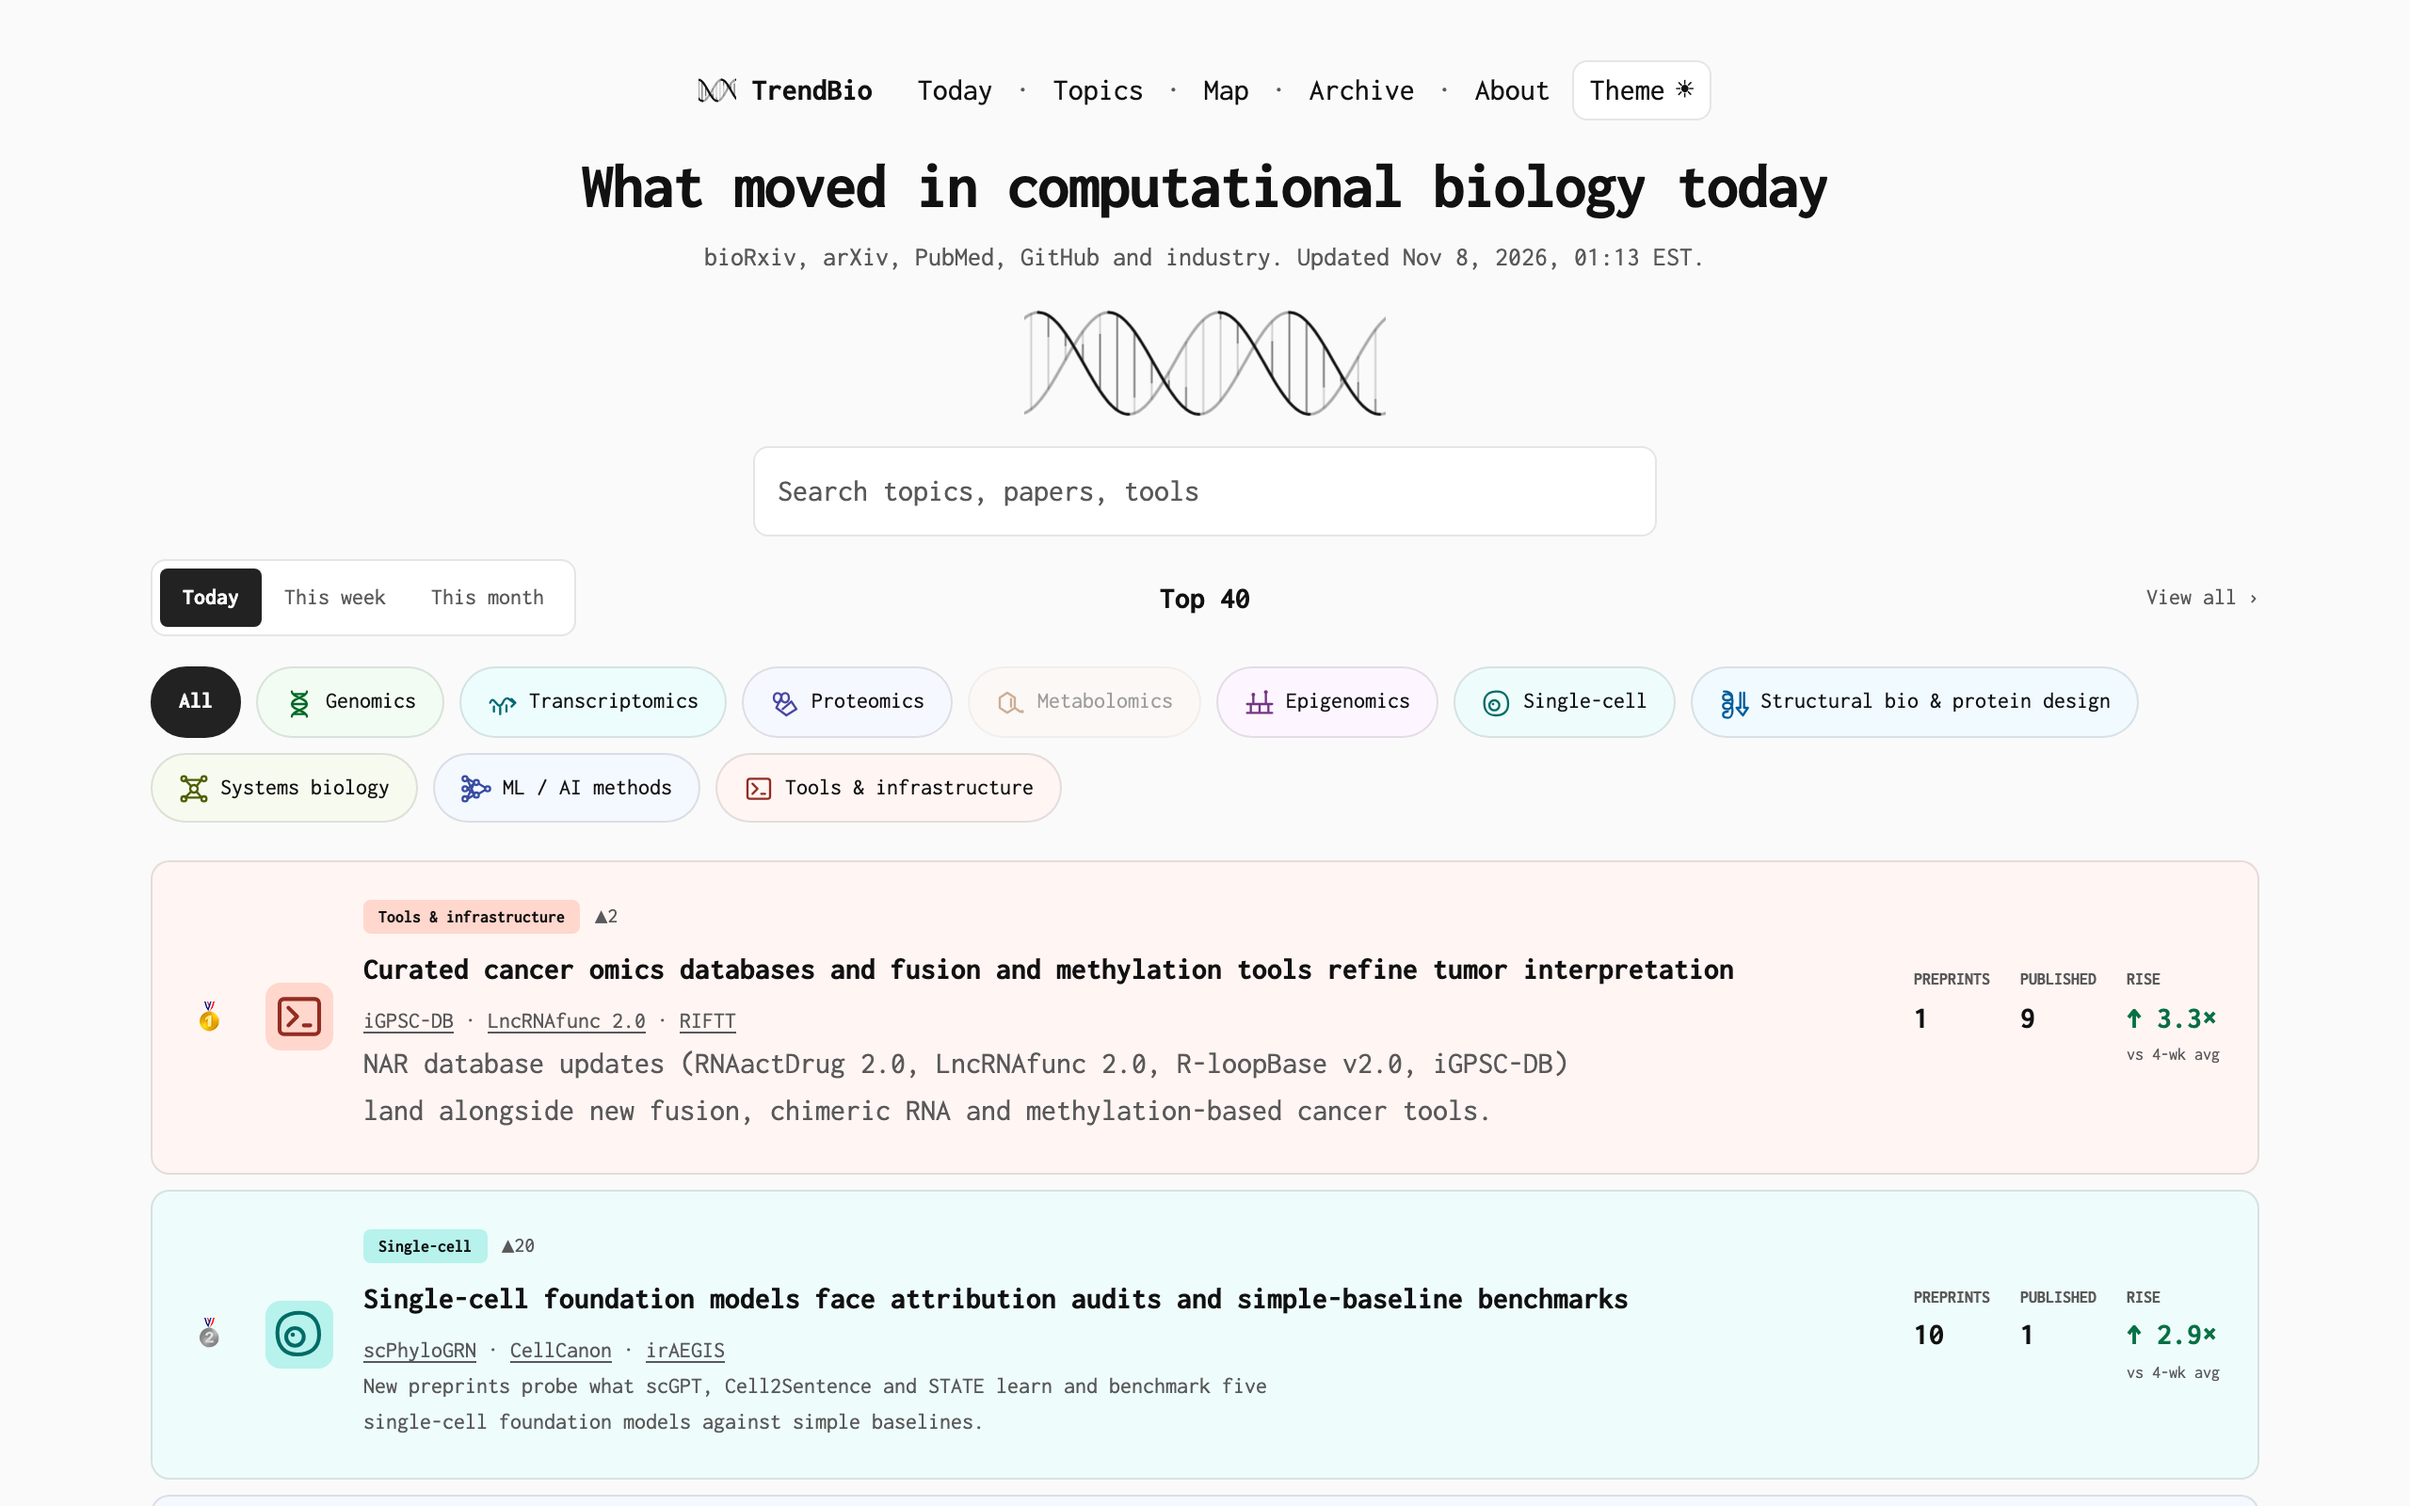
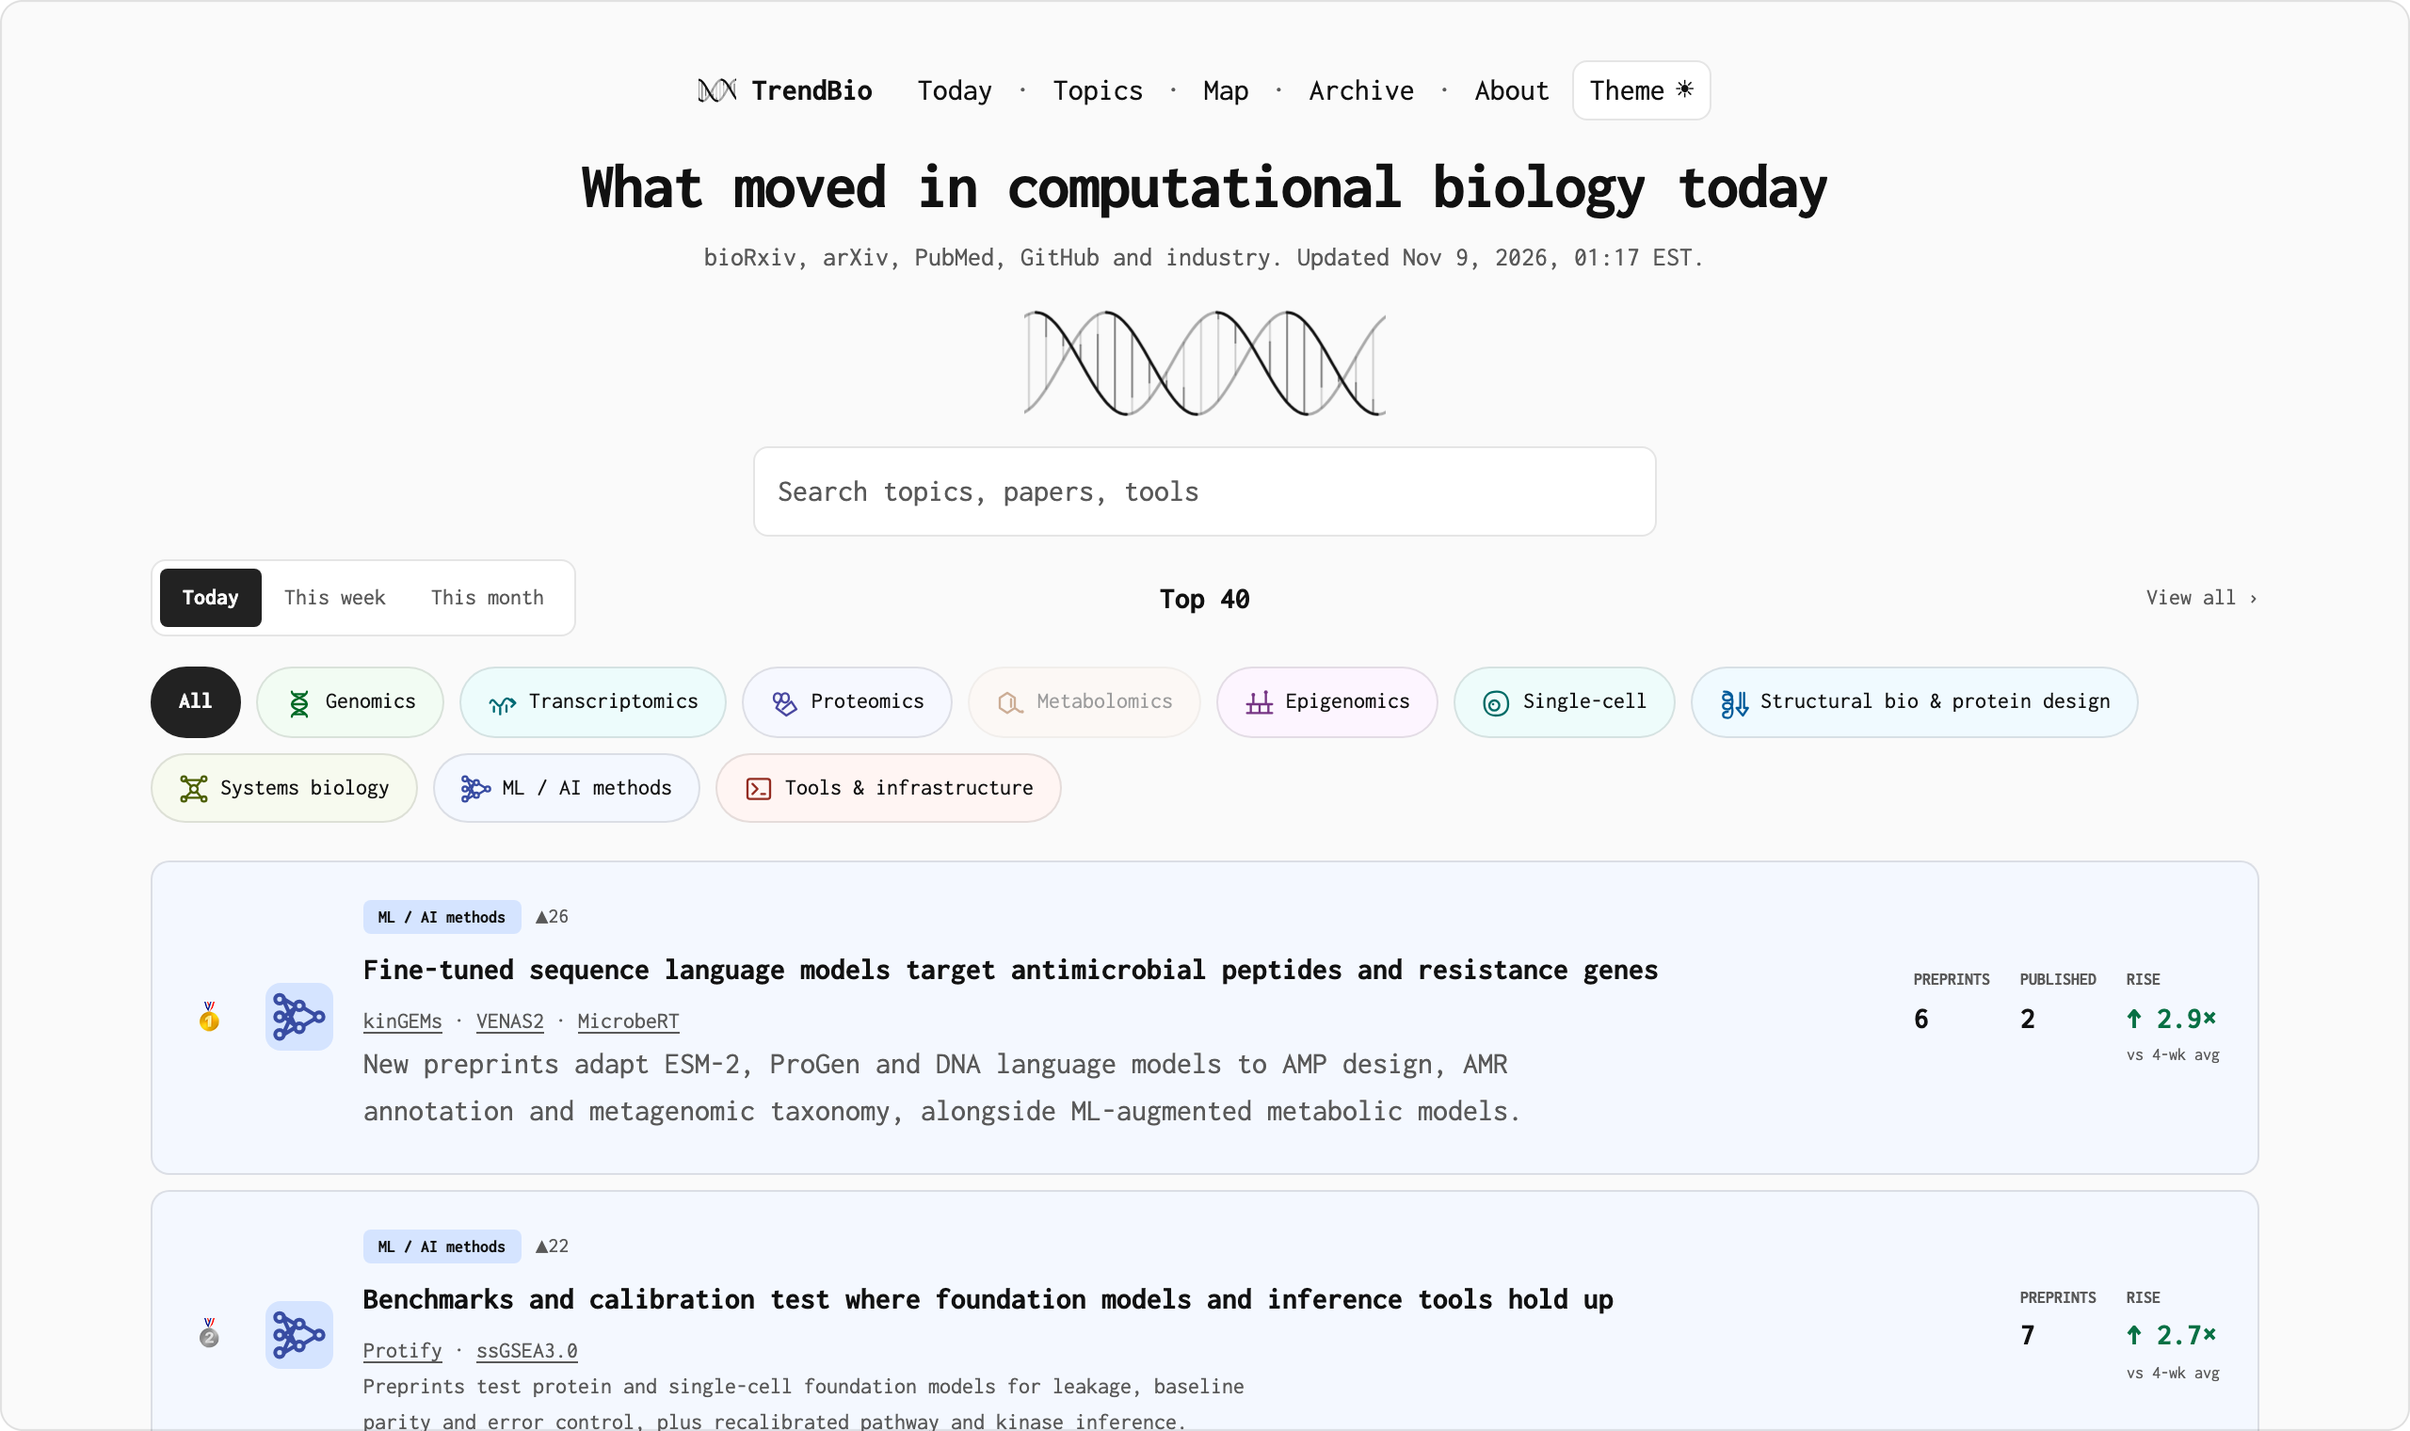
docs: README round two — animated helix, SVG pipeline, tighter tables

diff --git a/README.md b/README.md
@@ -1,85 +1,71 @@
 <p align="center">
   <picture>
-    <source media="(prefers-color-scheme: light)" srcset="docs/readme/mark-light.svg">
-    <img src="docs/readme/mark-dark.svg" width="56" alt="">
+    <source media="(prefers-color-scheme: light)" srcset="docs/readme/helix-light.svg">
+    <img src="docs/readme/helix-dark.svg" width="320" alt="">
   </picture>
 </p>
 
 <h1 align="center">TrendBio</h1>
 
-<p align="center">
-  What is moving in computational biology, ranked every day.<br>
-  Papers, code and industry — clustered, scored and summarised by a pipeline, not a newsroom.
-</p>
+<p align="center">What is moving in computational biology, ranked every day.</p>
 
 <p align="center">
-  <a href="https://trendbio.dev"><strong>trendbio.dev</strong></a>
+  <a href="https://trendbio.dev">trendbio.dev</a>&ensp;·&ensp;<a href="https://trendbio.dev/feed.xml">Atom feed</a>&ensp;·&ensp;<a href="https://trendbio.dev/about">How it works</a>
 </p>
 
-<p align="center">
-  <a href="https://github.com/jam-sudo/TrendBio/actions/workflows/daily.yml"><img src="https://github.com/jam-sudo/TrendBio/actions/workflows/daily.yml/badge.svg" alt="Daily pipeline"></a>
-  <a href="https://github.com/jam-sudo/TrendBio/actions/workflows/deploy.yml"><img src="https://github.com/jam-sudo/TrendBio/actions/workflows/deploy.yml/badge.svg" alt="Deploy"></a>
-  <a href="https://github.com/jam-sudo/TrendBio/actions/workflows/ci.yml"><img src="https://github.com/jam-sudo/TrendBio/actions/workflows/ci.yml/badge.svg" alt="CI"></a>
-</p>
+<br>
 
 <picture>
   <source media="(prefers-color-scheme: light)" srcset="docs/readme/home-light.png">
-  <img src="docs/readme/home-dark.png" alt="The TrendBio home page: a centred helix, a search box, and the day's ranked research topics.">
+  <img src="docs/readme/home-dark.png" alt="The TrendBio home page: the helix, a search box, and the day's ranked research topics.">
 </picture>
 
-Every day TrendBio reads the new preprints, papers, repositories and company posts in computational biology, groups them into research topics, ranks the Top 40, and writes a short synthesis for each one. The result is one page a day for readers who already know the field. History runs back to 1 November 2025.
+<br>
+
+TrendBio reads each day's new preprints, papers, repositories and company posts in computational biology, groups them into research topics, ranks the Top 40 and writes a short synthesis for each. One page a day, for readers who already know the field, with history back to 1 November 2025.
 
 ## How a day is made
 
-```
-      bioRxiv · arXiv · PubMed          GitHub              22 RSS feeds
-       preprints and papers        repos and releases    company and news posts
-                 │                        │                        │
-                 └────────────────────────┼────────────────────────┘
-                                          ▼
-   collect ─▶ dedupe ─▶ enrich ─▶ embed ─▶ cluster ─▶ score ─▶  select ─▶ synthesize
-                        Haiku     SPECTER2 complete   rise      Top 40    Opus 1–5
-                                           linkage    diversity 1 per     Sonnet 6–20
-                                           d ≤ 0.10   velocity  category  Haiku 21–40
-                                                      volume    floor
-                                          │
-                                          ▼
-             commit data/computational/  ─▶  Astro build  ─▶  Cloudflare Pages
-```
+<picture>
+  <source media="(prefers-color-scheme: light)" srcset="docs/readme/pipeline-light.svg">
+  <img src="docs/readme/pipeline-dark.svg" alt="Sources flow into eight stages: collect, dedupe, enrich, embed, cluster, score, select, synthesize; the result is committed and deployed.">
+</picture>
+
+| Source | Scope |
+|---|---|
+| bioRxiv | 7 categories, 2 of them keyword-filtered |
+| arXiv | `q-bio.*`, plus keyword-filtered `cs.LG`, `cs.AI` and `stat.ML` |
+| PubMed | 21 journals in full, 16 more keyword-filtered; copies of bioRxiv and medRxiv preprints dropped |
+| GitHub | 20 watched repositories and 8 topic searches; stars and releases |
+| RSS | 22 feeds: 18 company and institute blogs, 4 keyword-filtered news feeds |
 
 | Stage | What happens |
 |---|---|
-| Collect | bioRxiv (7 categories), arXiv (`q-bio.*`, plus keyword-filtered `cs.LG`, `cs.AI`, `stat.ML`), PubMed (21 journals in full, 16 keyword-filtered), GitHub (20 watched repositories plus 8 topic searches), 22 RSS feeds (18 company, 4 news) |
-| Dedupe | Preprint versions collapse; PubMed copies of bioRxiv and medRxiv preprints are dropped; preprints link to their published versions when known |
-| Enrich | Claude Haiku judges relevance and writes a one-line summary; number claims are grounded against the title and abstract |
-| Embed and cluster | SPECTER2 (`allenai/specter2_base`) embeddings; complete-linkage clustering at cosine distance 0.10; a topic needs at least 3 papers |
-| Attach | A code or industry item joins its nearest topic only when cosine similarity reaches 0.94; it adds evidence, never paper counts |
+| Dedupe | Preprint versions collapse into one item; preprints link to their published versions when known |
+| Enrich | Claude Haiku judges relevance and writes a one-line summary; numbers are checked against the title and abstract |
+| Cluster | SPECTER2 embeddings, complete linkage at cosine distance 0.10, at least 3 papers per topic |
+| Attach | Code and industry items join their nearest topic at similarity ≥ 0.94, as evidence, never as paper counts |
 | Score | rise 45 % · diversity 25 % · code velocity 15 % · volume 15 %, with a 5 % penalty for ranking yesterday |
-| Select | One topic reserved per represented category, then by score, at most 8 per category, Top 40 |
-| Synthesize | Claude Opus for ranks 1–5, Sonnet for 6–20, Haiku for 21–40; backfilled history uses Haiku |
+| Select | 1 topic reserved per represented category, at most 8 per category, Top 40 |
+| Synthesize | Opus for ranks 1–5, Sonnet for 6–20, Haiku for 21–40 and for backfilled history |
 
-Topics persist across days when a cluster shares enough papers with the adjacent seven days of a topic's history (Jaccard ≥ 0.25) or sits close enough to its centroid (similarity ≥ 0.95), with a history entry within 10 days in either direction. A topic keeps its page, its history and its rank changes.
+A topic keeps its page across days when a new cluster shares its recent papers (Jaccard ≥ 0.25) or sits on its centroid (similarity ≥ 0.95) within 10 days, so rank changes and history are real.
 
 ## The site
 
-[Today](https://trendbio.dev) · [Topics](https://trendbio.dev/topics) · [Map](https://trendbio.dev/map/) · [Archive](https://trendbio.dev/archive) · [About](https://trendbio.dev/about)
+Full rows for the Top 5 and compact rows to 20, with rank changes and the tool names each topic mentions; forty on request. Every topic links its evidence, exports BibTeX and keeps a day-by-day history. Weekly and monthly rankings, a topic map and a year of archive pages sit beside it. Three side lists catch what clustering misses: **From code**, **From industry** and **Shared by researchers**, the last from Bluesky and display only. Search is instant and local (Pagefind), feeds are Atom (daily Top 5 and per category), times are US Eastern, and the theme follows yours.
 
-- Full rows for the Top 5, compact rows to 20, "Show more" to 40; rows carry rank changes, and the Top 20 show tool names extracted from paper titles.
-- Every topic links its evidence, offers BibTeX for its papers, and keeps a day-by-day history.
-- Weekly and monthly rankings, a topic map, and a year of archive pages.
-- Three side lists: From code (GitHub repositories and star gains), From industry (company announcements), and Shared by researchers (papers getting attention on Bluesky; display only, never affects ranking).
-- Instant search as you type (Pagefind, built at deploy time), Atom feeds for the daily Top 5 and per category, a dark and a light theme, times in US Eastern.
-- Astro 5, static files on Cloudflare Pages, Cloudflare Web Analytics without cookies.
+Astro 5 on Cloudflare Pages. No cookies: Cloudflare Web Analytics counts page views.
 
 ## Schedule and cost
 
-A [Cloudflare Worker](ops/daily-trigger/) dispatches the Daily pipeline at 06:05 UTC; GitHub's own schedule stays as a late-arriving backup that skips when a run created that UTC day already succeeded. A run takes about ten minutes and commits its output to `data/computational/`; the site rebuilds after every push to `main` and after every pipeline run.
+A [Cloudflare Worker](ops/daily-trigger/) starts the run at 06:05 UTC; GitHub's own schedule is the late-arriving backup and skips when a run already succeeded that UTC day. About ten minutes later the run commits to `data/computational/` and the site rebuilds.
 
-Planned LLM spend is about USD 0.50 a day under a USD 55 monthly ceiling; once the month's spend passes the ceiling, new syntheses fall back to Haiku and the day is marked degraded. Only aggregate counts, paper IDs and per-host coverage from Bluesky are stored; no identities, post text or credentials ever are.
+LLM spend is about USD 0.50 a day against a USD 55 monthly ceiling; past the ceiling, new syntheses fall back to Haiku and the day is marked degraded. From Bluesky only aggregate counts, paper IDs and per-host coverage are kept, never identities, post text or credentials.
 
 ## Run it yourself
 
-Python 3.12 and Node 22. Set `ANTHROPIC_API_KEY` for live pipeline commands; `NCBI_API_KEY` and `GITHUB_TOKEN` are optional but raise rate limits.
+Python 3.12 and Node 22. `ANTHROPIC_API_KEY` for live pipeline commands; `NCBI_API_KEY` and `GITHUB_TOKEN` optional, for higher rate limits.
 
 ```sh
 pip install -e '.[dev]'
@@ -109,12 +95,10 @@ docs/       design spec, implementation plans, operations guide
 
 ## Documentation
 
-- [Design spec](docs/superpowers/specs/2026-11-02-trendbio-design.md) — the product decisions and why
-- [Operations](docs/operations.md) — sources, thresholds, workflows, degraded days, sponsors, measured costs
-- [Implementation plans](docs/superpowers/plans/) — one file per shipped change
+[Design spec](docs/superpowers/specs/2026-11-02-trendbio-design.md)&ensp;·&ensp;[Operations](docs/operations.md)&ensp;·&ensp;[Implementation plans](docs/superpowers/plans/)
 
 ## License
 
-Code is [MIT](LICENSE). Everything the pipeline produces under `data/` — headlines, summaries, syntheses, clusters, scores and rankings — is [CC BY 4.0](data/LICENSE); cite it as TrendBio (trendbio.dev). Paper titles, abstracts and author names in `data/` belong to their authors and publishers and are not covered.
+Code is [MIT](LICENSE). What the pipeline produces under `data/`, from headlines to rankings, is [CC BY 4.0](data/LICENSE), cited as TrendBio (trendbio.dev). Paper titles, abstracts and author names belong to their authors and publishers.
 
-Headlines, summaries and syntheses are machine-generated and can be wrong; follow the evidence links before relying on a claim. Contact: [contact removed]
+<p align="center"><sub>Headlines, summaries and syntheses are machine-generated and can be wrong; follow the evidence links before relying on a claim.&ensp;·&ensp;[contact removed]</sub></p>

diff --git a/docs/operations.md b/docs/operations.md
@@ -43,7 +43,7 @@ Discovered repos with matching normalized descriptions and variant names, or ide
 
 ## Clustering, attachment and continuity
 
-Paper clusters use complete linkage at cosine distance 0.10, with at least three papers.
+Paper clusters use SPECTER2 (`allenai/specter2_base`) embeddings and complete linkage at cosine distance 0.10, with at least three papers.
 Each relevant code/industry item attaches to only its nearest paper centroid when cosine
 similarity reaches `attach_min_similarity` (0.94; [calibration](../tests/evidence/code-industry-2026-11-05.md)).
 Attached IDs are stored separately in `attached_item_ids` (empty for older histories),
